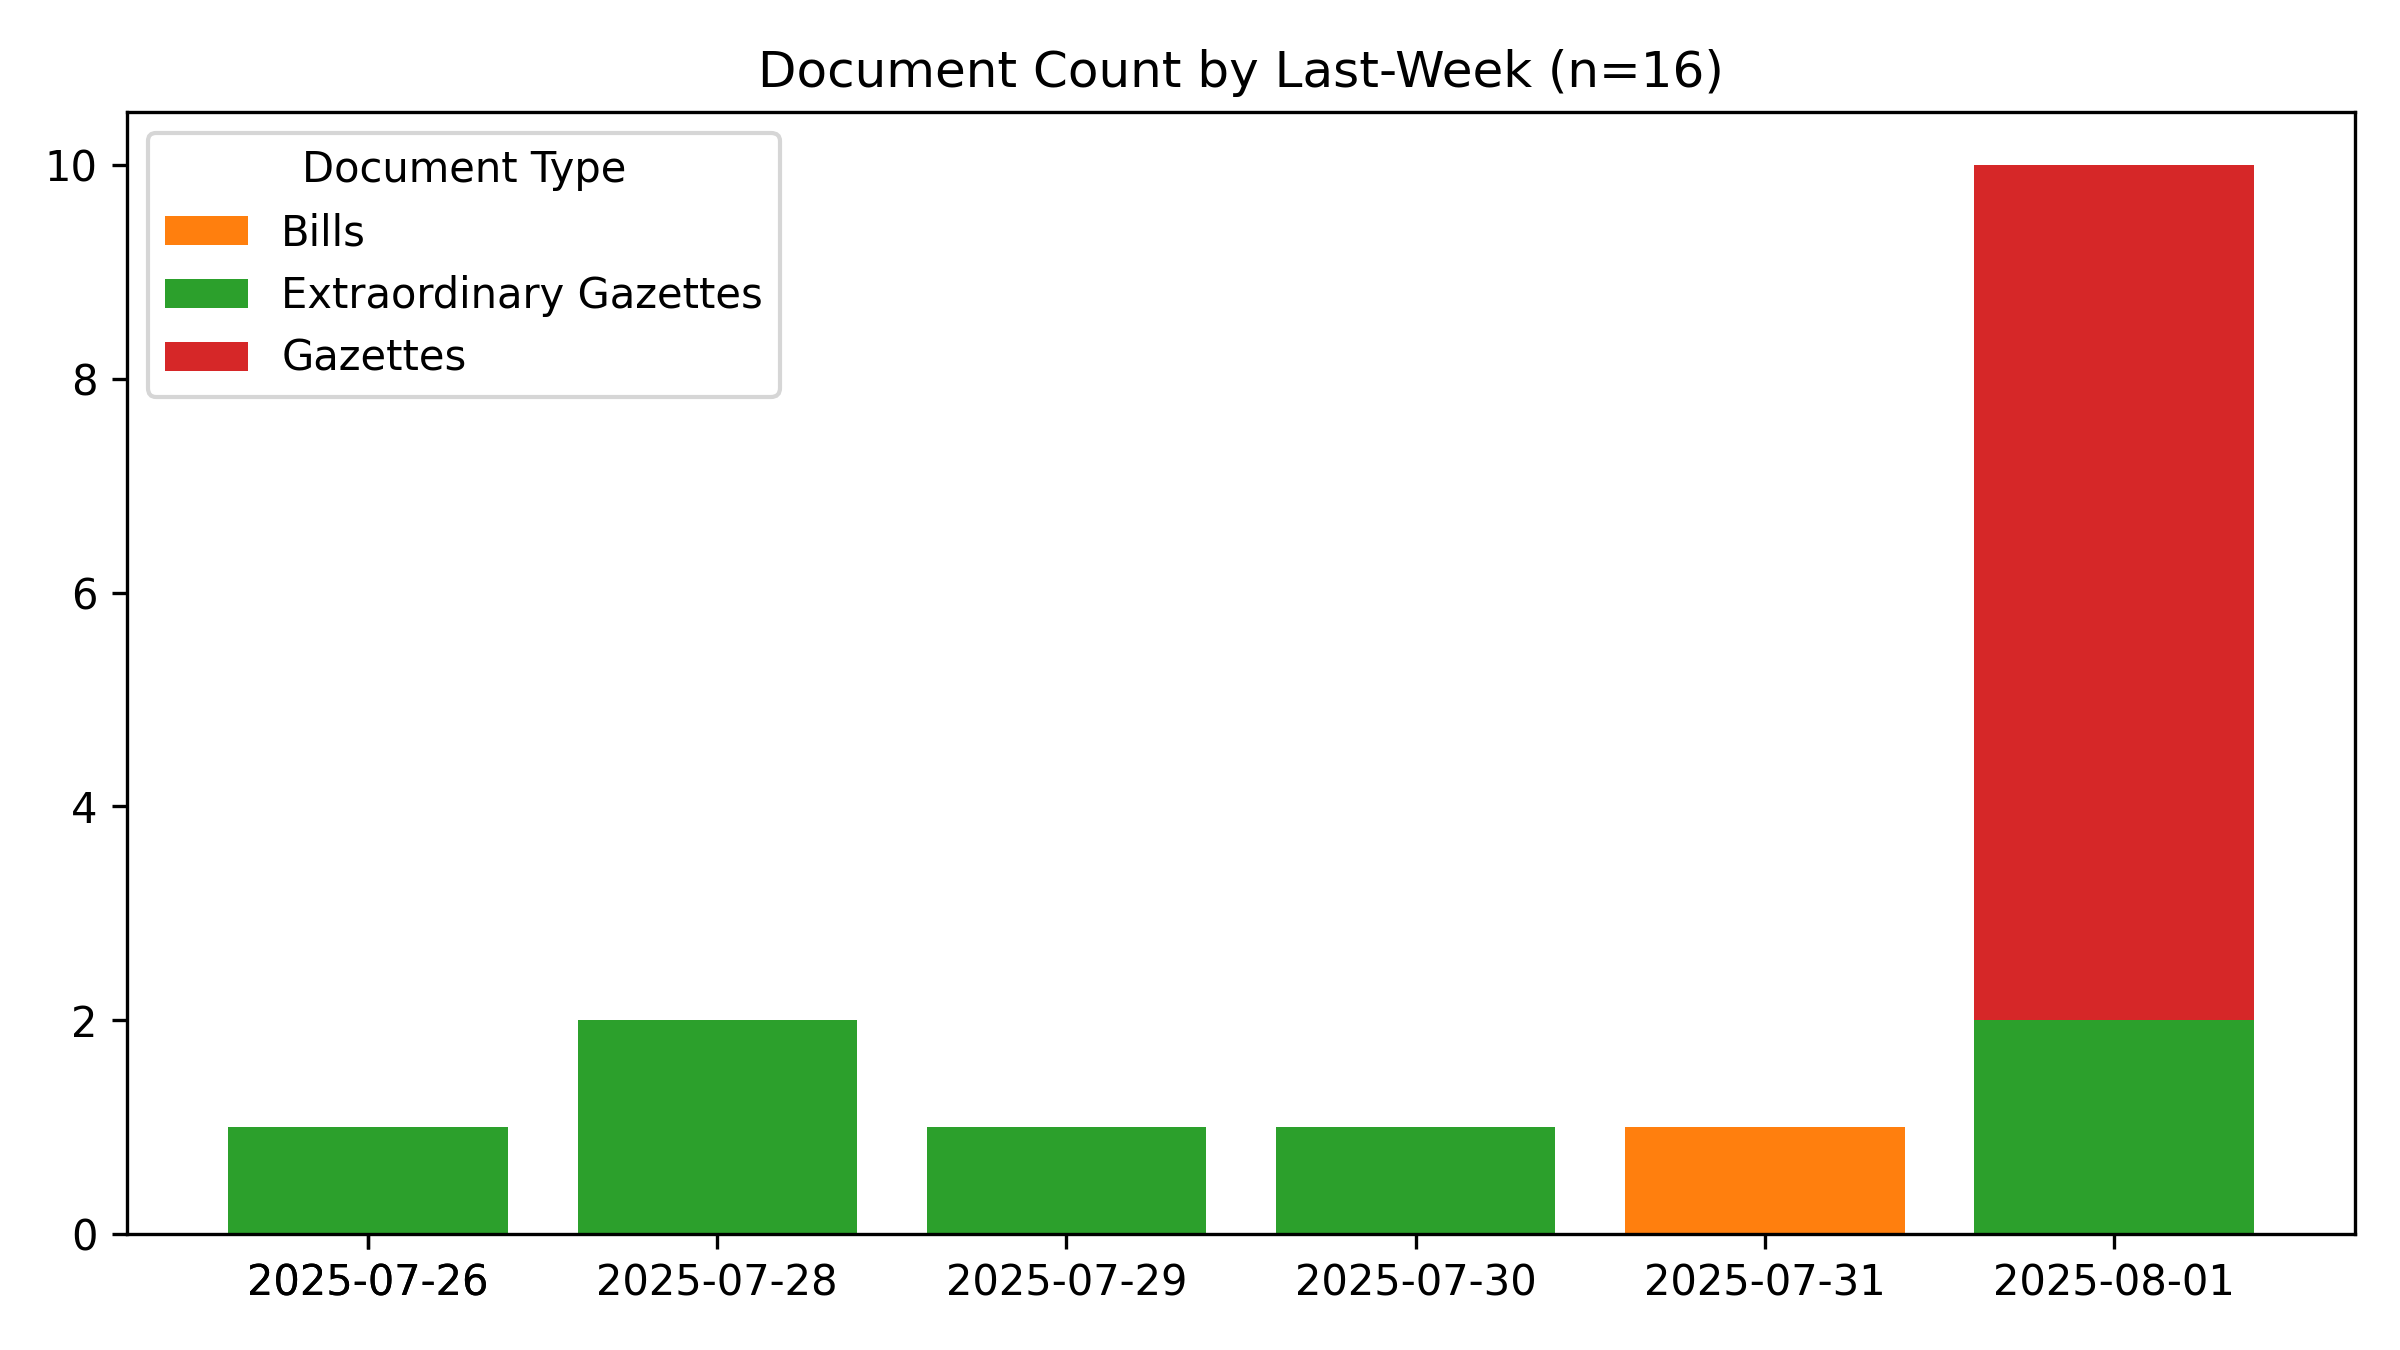
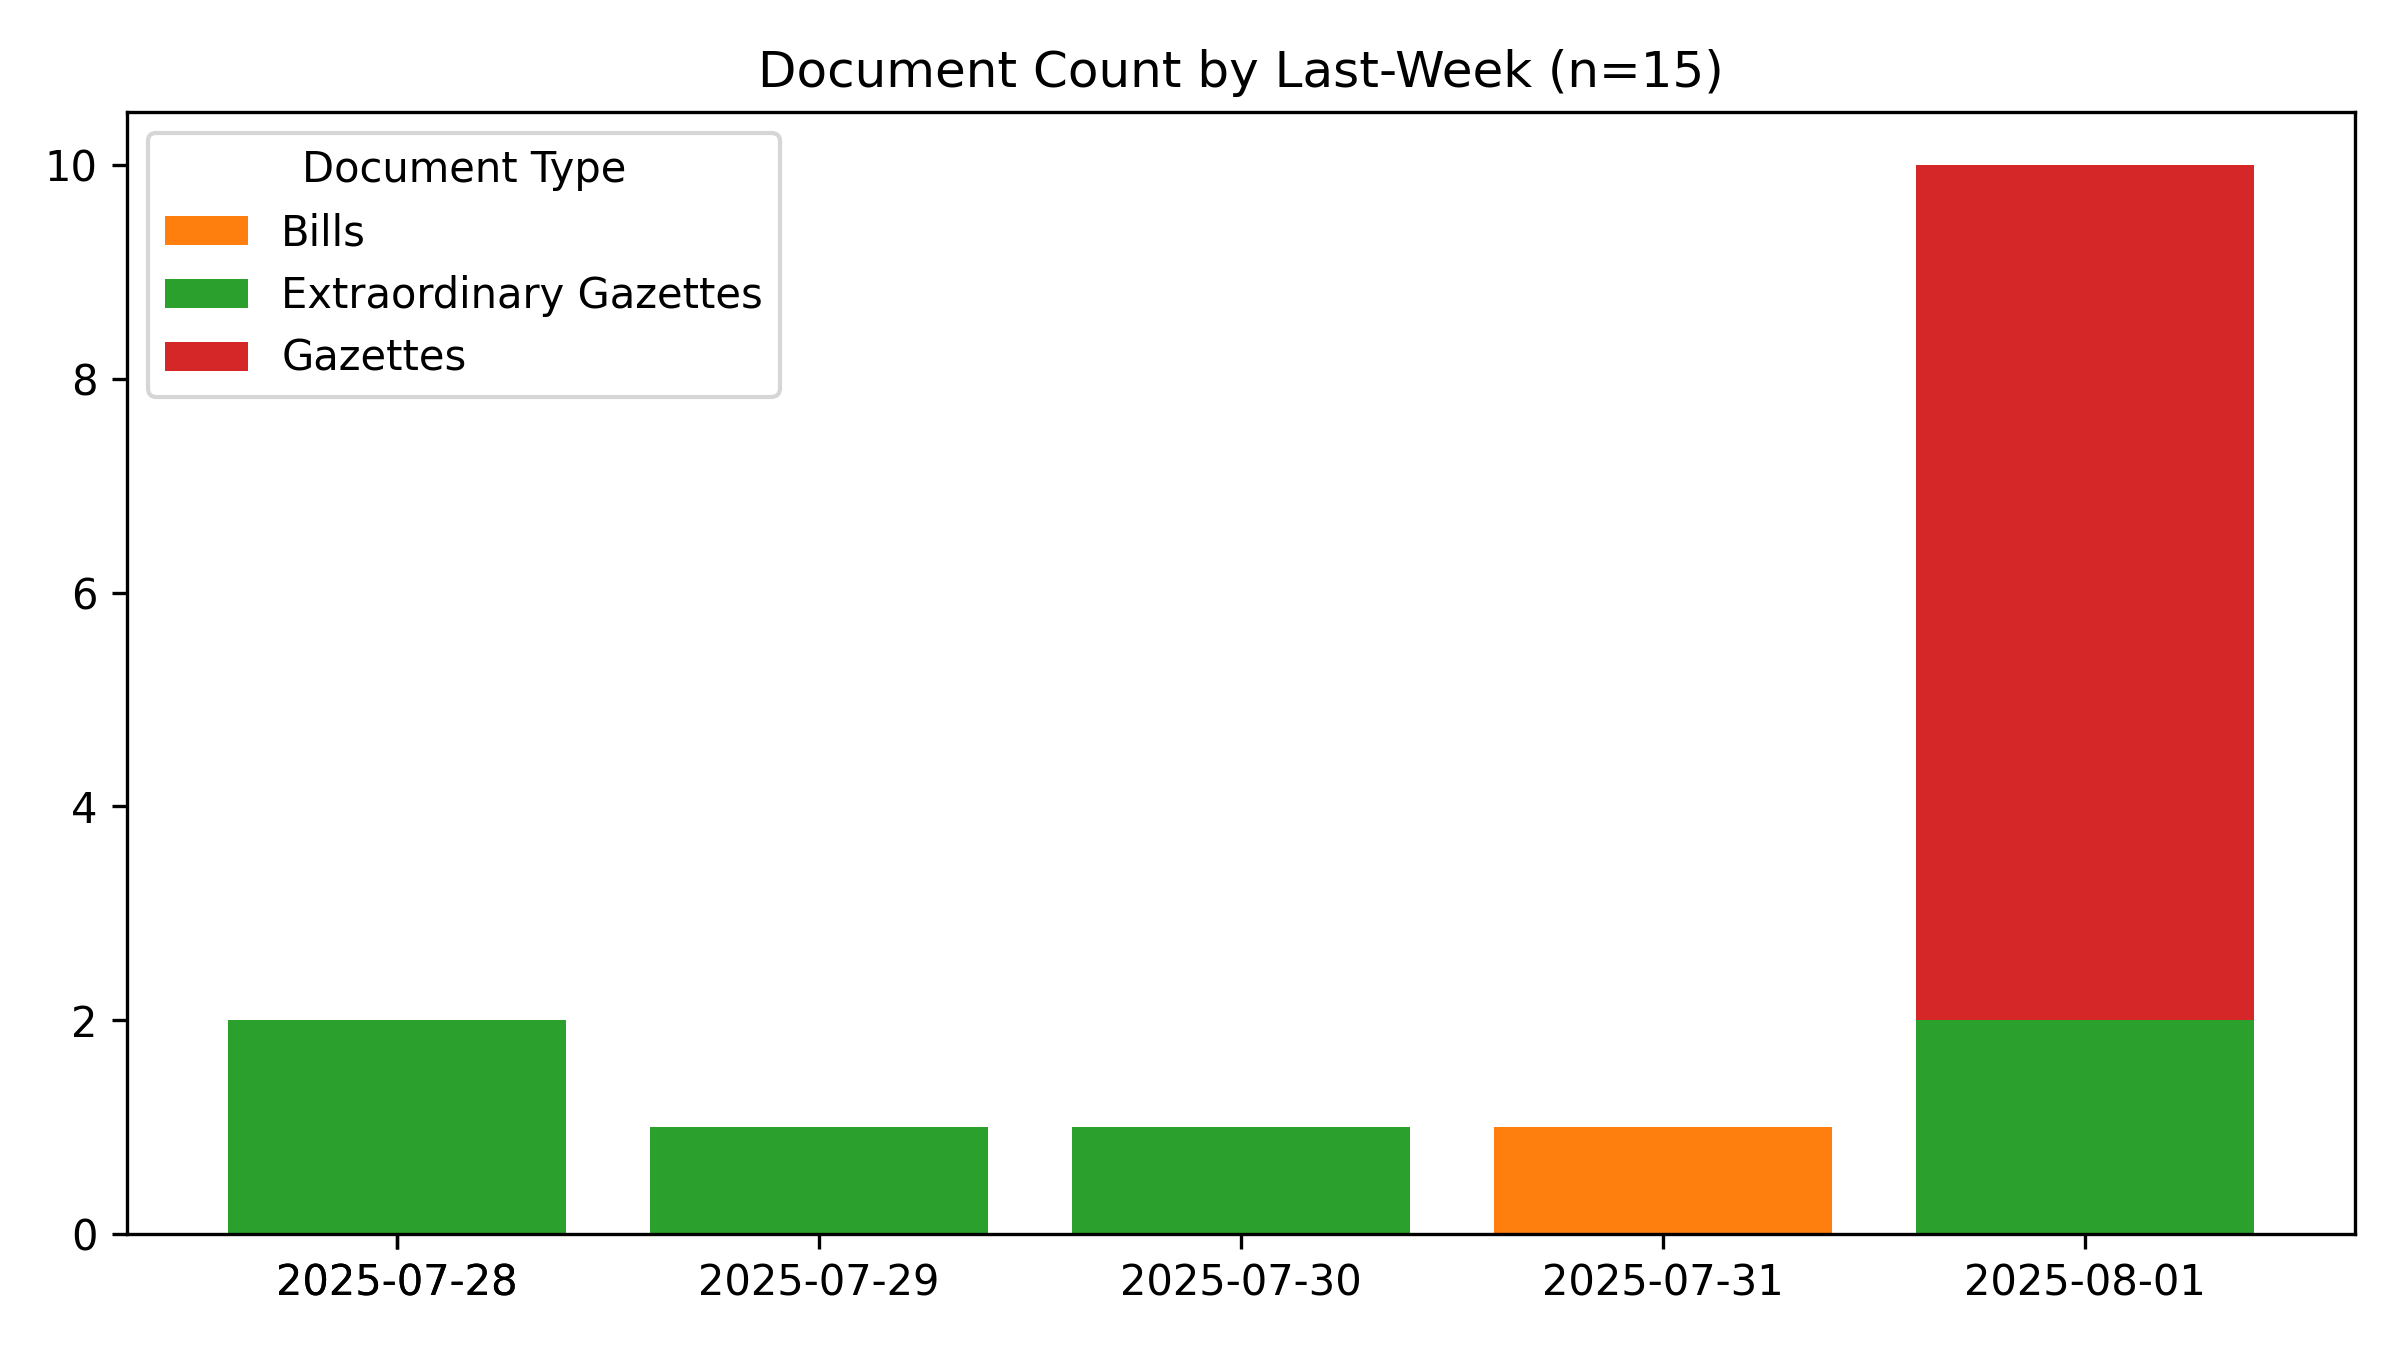
🤖 [aggregate.yml] 2025-08-03-0000

Changed region(s): [[0.0938, 0.1244, 0.9375, 0.9644], [0.0938, 0.9333, 0.2188, 0.9644], [0.6875, 0.0311, 0.7188, 0.0622]]

diff --git a/README.md b/README.md
@@ -1,6 +1,6 @@
 # #SriLanka 🇱🇰 - Legal Documents #Dataset
 
-*Last Updated **2025-08-03 04:29:47**.*
+*Last Updated **2025-08-03 05:30:27**.*
 
 **44,205** documents (51.1 MB), from 1981-01-22 to 2025-08-01.
 
@@ -43,7 +43,7 @@ For best results, use a desktop browser.
 
 ## Recent Documents (Published during the last 7 days)
 
-**16** Documents
+**15** Documents
 
 - 🚨 [2025-08-01] [Election Commission - Notice under Section 66A (2) Walakulu Gamage Ariyawathi Elected as a member of the Thawalama Pradeshiya Sabha](https://github.com/nuuuwan/lk_legal_docs_data/tree/main/data/extra-gazettes/2025/2447-61)
 - 🚨 [2025-08-01] [Election Commission - Notice under Section 66A (1) Elected Chamaika Dilani Fernando as a member of Chilaw Urban Council](https://github.com/nuuuwan/lk_legal_docs_data/tree/main/data/extra-gazettes/2025/2447-52)
@@ -60,4 +60,3 @@ For best results, use a desktop browser.
 - 🚨 [2025-07-29] [Ministry of Labour - Industrial dispute between Mr. P. A. Bogoda and Upali Newspapers (Pvt) Ltd 2.W. M. Ashaka Damayanthi and Sri Lanka Mahaweli Authority 3. D. M. Dissanayaka and SLTB](https://github.com/nuuuwan/lk_legal_docs_data/tree/main/data/extra-gazettes/2025/2447-24)
 - 🚨 [2025-07-28] [Land Title Settlement Dept. - Kendaliyaddapaluwa, Mahara D/S Division, Gampaha District (7846)](https://github.com/nuuuwan/lk_legal_docs_data/tree/main/data/extra-gazettes/2025/2447-02)
 - 🚨 [2025-07-28] [Sri Lanka Customs - Rates of Exchange from 28.07.2025 to 03.08.2025](https://github.com/nuuuwan/lk_legal_docs_data/tree/main/data/extra-gazettes/2025/2447-01)
-- 🚨 [2025-07-26] [Divisional Secretariat Pasgoda - Pilgrimages Ordinance Annual Religious Festival 2025 of Rotumba Pethgama Ancient Temple](https://github.com/nuuuwan/lk_legal_docs_data/tree/main/data/extra-gazettes/2025/2446-55)
